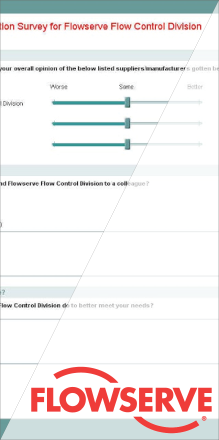
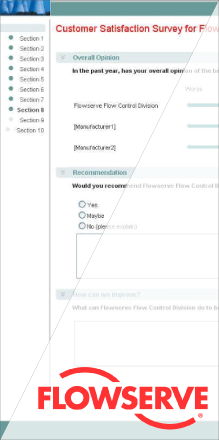
finish experience modals

diff --git a/app/index.html b/app/index.html
@@ -80,7 +80,15 @@
 
                         <div class="modal">
                             <label for="modal-1">
-                                <div class=""><img src="images/flowserve-teaser.png" class="logo"></div>
+                                <div class="modal-teaser">
+                                    <div class="modal-teaser-image"><img src="images/flowserve-teaser.png"></div>
+
+                                    <div class="modal-teaser-text">
+                                        <h4>Flowserve</h4>                            
+                                        <p>Built an online survey that could handle bidirectional language support using asynchronous Javascript and XML — three years before AJAX.</p> 
+                                        <div class="btn">Creative Strategy Innovations</div>
+                                    </div>
+                                </div>
                             </label>
 
                             <input class="modal-state" id="modal-1" type="checkbox"/>
@@ -88,16 +96,29 @@
                             <div class="modal-window">
                                 <div class="modal-inner">
                                     <label class="modal-close" for="modal-1"></label>
-                                    <h4>USPS</h4>
-                                    <p class="intro">While a contractor the US Postal Service, I was tasked with building an application for several hundred help desk associates, allowing them to virtually manage, update, and share documentation describing thousands of procedures.</p> 
-                                    <p class="body">Beginning with interviews from team leads and senior employees, I surveyed departments about current pain points and consulted with stakeholders to gather key requirements, including the newly issued federal accessibility standards, Section 508. I developed fully-functional interface prototypes, sitemaps, storyboards, and worked with back-end developers to consolidate code branches into a single deployment-ready codebase. Because of initial buy-in from pivotal members of staff, help desk workers were trained and able to use the application in a matter of hours after deployment.</p>
+
+                                    <div class="modal-inner-image"><img src="images/flowserve.png" alt=""></div>
+
+                                    <div class="modal-inner-text">
+                                        <h4>Flowserve Online Survey</h4>
+                                        <p class="intro">Built an online survey that could handle bidirectional language support using asynchronous Javascript and XML — three years before AJAX.</p> 
+                                        <p class="body">Beginning with interviews from team leads and senior employees, I surveyed departments about current pain points and consulted with stakeholders to gather key requirements, including the newly issued federal accessibility standards, Section 508. I developed fully-functional interface prototypes, sitemaps, storyboards, and worked with back-end developers to consolidate code branches into a single deployment-ready codebase. Because of initial buy-in from pivotal members of staff, help desk workers were trained and able to use the application in a matter of hours after deployment.</p>
+                                        </div>
                                 </div>
                             </div>
                         </div>
 
                         <div class="modal">
                             <label for="modal-2">
-                                <div class=""><img src="images/soccer-teaser.png" class="logo"></div>
+                                <div class="modal-teaser">
+                                    <div class="modal-teaser-image"><img src="images/soccer-teaser.png"></div>
+
+                                    <div class="modal-teaser-text">
+                                        <h4>Sports Endeavors</h4>                            
+                                        <p>Championed the evolution of the existing codebase of soccer.com, then an unwieldy 10,000 pages with no separation of presentation from content, into a semantic standards-based model.</p>  
+                                        <div class="btn">Proven Production Standards</div>
+                                    </div>
+                                </div>
                             </label>
 
                             <input class="modal-state" id="modal-2" type="checkbox"/>
@@ -105,16 +126,28 @@
                             <div class="modal-window">
                                 <div class="modal-inner">
                                     <label class="modal-close" for="modal-2"></label>
-                                    <h4>Sports Endeavors / soccer.com</h4>
-                                    <p class="intro">At soccer.com, I championed evolving the existing codebase  —  then an unwieldy 10,000 pages, with no separation of presentation from content —   into a semantic standards-based model.</p> 
-                                    <p class="body">I wrote production-level front-end and back-end code designed to be accessible on a variety of devices and across a wide spectrum of browser and browser versions, years before such standards were considered to be a natural part of development. I also developed interfaces for interactive Flash-based features and worked with departmental leads and other key stakeholders to ensure both adherence to vendor (Nike, Adidas, etc) based brand guidelines and commerce ready data quality standards. Much of the code I produced remained in production for over seven years.</p>
+                                        <div class="modal-inner-image"><img src="images/soccer.png" alt=""></div>
+
+                                        <div class="modal-inner-text">
+                                            <h4>Sports Endeavors / soccer.com</h4>
+                                            <p class="intro">At soccer.com, I championed evolving the existing codebase  —  then an unwieldy 10,000 pages, with no separation of presentation from content —   into a semantic standards-based model.</p> 
+                                            <p class="body">I wrote production-level front-end and back-end code designed to be accessible on a variety of devices and across a wide spectrum of browser and browser versions, years before such standards were considered to be a natural part of development. I also developed interfaces for interactive Flash-based features and worked with departmental leads and other key stakeholders to ensure both adherence to vendor (Nike, Adidas, etc) based brand guidelines and commerce ready data quality standards. Much of the code I produced remained in production for over seven years.</p>
+                                        </div>
                                 </div>
                             </div>
                         </div>
 
                         <div class="modal">
                             <label for="modal-3">
-                                <div class=""><img src="images/icontact-teaser.png" class="logo"></div>
+                                <div class="modal-teaser">
+                                    <div class="modal-teaser-image"><img src="images/icontact-teaser.png"></div>
+
+                                    <div class="modal-teaser-text">
+                                        <h4>iContact</h4>                            
+                                        <p>Created a user experience that pivoted the nature of a startup’s SaaS product into an industry leader and a multi-million dollar company.</p> 
+                                        <div class="btn">Exponential Growth Record</div>
+                                    </div>
+                                </div>
                             </label>
 
                             <input class="modal-state" id="modal-3" type="checkbox"/>
@@ -122,9 +155,14 @@
                             <div class="modal-window">
                                 <div class="modal-inner">
                                     <label class="modal-close" for="modal-3"></label>
-                                    <h4>iContact / icontact.com</h4>
-                                    <p class="intro">While at iContact, I was one of two UX designers tasked with creating an experience intended to pivot the nature of the then-startup’s product.</p> 
-                                    <p class="body">I analyzed months of help desk tickets in order to determine specific user pain points and conducted a heuristic evaluation of the existing application. After generating competitive analyses of key competitors and target competitive markets, I performed content auditing on existing marketing materials. In order to facilitate company buy-in of user-centered principles, I worked with back-end development in an Agile environment to create functional design patterns, define user flows, establish sitemaps, and other UX deliverables. Before launch, I conducted focus groups, informal “hallway” usability audits, formal usability testing, and A/B testing in order to verify and validate application features. Trial conversion rates increased by 200% during the first quarter after relaunch and doubled the number of paying customers in a less than year. iContact was named the #1 Marketing Application for 2007 by SEOMoz, then a major industry consulting firm.</p>
+
+                                    <div class="modal-inner-image"><img src="images/icontact.png" alt=""></div>
+
+                                    <div class="modal-inner-text">
+                                        <h4>iContact / icontact.com</h4>
+                                        <p class="intro">One of two UX designers tasked with creating a user experience intended to pivot the nature of the startup’s product into a multi-million dollar company.</p> 
+                                        <p class="body">In order to determine specific user pain points, I analyzed months of help desk tickets and conducted a heuristic evaluation of the existing application. After generating competitive analyses of key competitors and target competitive markets, I performed content auditing on existing marketing materials. In order to facilitate company buy-in of user-centered principles, I worked with back-end development in an Agile environment to create functional design patterns, define user flows, establish sitemaps, and other UX deliverables. Before launch, I conducted focus groups, informal “hallway” usability audits, formal usability testing, and A/B testing in order to verify and validate application features. Trial conversion rates increased by 200% during the first quarter after relaunch and doubled the number of paying customers in a less than year. iContact was named the #1 Marketing Application for 2007 by SEOMoz, then a major industry consulting firm.</p>
+                                    </div>
                                 </div>
                             </div>
                         </div>
@@ -149,8 +187,8 @@
             </main><!-- .main -->
 
             <footer>
-                <p>Colophon: Bourbon Neat via Yeoman, Sublime Text with some help from vim, and other delightful things.</p>
-                <p>Original photography copyright Jeni Grant, 2014. Icons by Google; USPS, Eurosport &amp; iContact by their respective companies and used in accordance with fair use doctrine.
+                <p>Colophon: Bourbon Neat &amp; Refills, Sublime Text with some help from vim, and other delightful things.</p>
+                <p>Original photography copyright Jeni Grant, 2014. Icons by Google.
             </footer><!-- .footer -->
 
             <!-- build:js scripts/vendor.js -->

diff --git a/app/sass/base/_typography.scss b/app/sass/base/_typography.scss
@@ -1,99 +1,98 @@
 body {
-  -webkit-font-smoothing: antialiased;
-  background-color: $base-background-color;
-  color: $base-font-color;
-  font-family: $base-font-family;
-  font-size: $base-font-size;
-  line-height: $unitless-line-height;
+    -webkit-font-smoothing: antialiased;
+    background-color: $base-background-color;
+    color: $base-font-color;
+    font-family: $base-font-family;
+    font-size: $base-font-size;
+    line-height: $unitless-line-height;
 }
 
 h1, h2, h3, h4, h5, h6 {
-  font-family: $header-font-family;
-  line-height: $header-line-height;
-  margin: 0;
-  text-rendering: optimizeLegibility; // Fix the character spacing for headings
-  font-weight: normal;
-  z-index: $z-index-3;
+    font-family: $header-font-family;
+    line-height: $header-line-height;
+    margin: 0;
+    text-rendering: optimizeLegibility; // Fix the character spacing for headings
+    font-weight: normal;
+    z-index: $z-index-3;
 }
 
 h1 {
-  font-size: $base-font-size * 3; // 16 * 2.25 = 36px
+    font-size: $base-font-size * 3; // 16 * 2.25 = 36px
 }
 
 h2 {
-  font-size: $base-font-size * 2.5; // 16 * 2 = 32px
+    font-size: $base-font-size * 2.75; // 16 * 2 = 32px
 }
 
 h3 {
-  font-size: $base-font-size * 2.25; // 16 * 1.75 = 28px
+    font-size: $base-font-size * 2.5; // 16 * 1.75 = 28px
 }
 
 h4 {
-  font-size: $base-font-size * 1.25; // 16 * 1.5 = 24px
+    font-size: $base-font-size * 1.75; // 16 * 1.5 = 24px
 }
 
 h5 {
-  font-size: $base-font-size * 1.25; // 16 * 1.25 = 20px
+    font-size: $base-font-size * 1.5; // 16 * 1.25 = 20px
 }
 
 h6 {
-  font-size: $base-font-size;
+    font-size: $base-font-size;
 }
 
 p {
-  margin: 0 0 ($base-line-height * .5);
+    margin: 0 0 ($base-line-height * .5);
 }
 
 a {
-  @include transition(color 0.1s linear);
-  color: $base-link-color;
-  text-decoration: none;
+    @include transition(color 0.1s linear);
+    color: $base-link-color;
+    text-decoration: none;
 
-  &:hover {
-    color: $hover-link-color;
-  }
+    &:hover {
+        color: $hover-link-color;
+    }
 
-  &:active, &:focus {
-    color: $hover-link-color;
-    outline: none;
-  }
+    &:active, &:focus {
+        color: $hover-link-color;
+        outline: none;
+    }
 }
 
 hr {
-  border-bottom: 1px solid $base-border-color;
-  border-left: none;
-  border-right: none;
-  border-top: none;
-  margin: $base-line-height 0;
+    border-bottom: 1px solid $base-border-color;
+    border-left: none;
+    border-right: none;
+    border-top: none;
+    margin: $base-line-height 0;
 }
 
 img {
-  margin: 0 1em;
-  max-width: 100%;
+    max-width: 100%;
 
-  &.right {
-    float: right;
-    clear: left;
-  }
+    &.right {
+        float: right;
+        clear: left;
+    }
 
-  &.left {
-    float: left;
-    clear: right;
-  }
+    &.left {
+        float: left;
+        clear: right;
+    }
 }
 
 blockquote {
-  border-left: 2px solid $base-border-color;
-  color: lighten($base-font-color, 15);
-  margin: $base-line-height 0;
-  padding-left: $base-line-height / 2;
+    border-left: 2px solid $base-border-color;
+    color: lighten($base-font-color, 15);
+    margin: $base-line-height 0;
+    padding-left: $base-line-height / 2;
 }
 
 cite {
-  color: lighten($base-font-color, 25);
-  font-style: italic;
+    color: lighten($base-font-color, 25);
+    font-style: italic;
 
-  &:before {
-    content: '\2014 \00A0';
-  }
+    &:before {
+        content: '\2014 \00A0';
+    }
 }

diff --git a/app/sass/base/_variables.scss b/app/sass/base/_variables.scss
@@ -43,15 +43,13 @@ $base-background-color: white;
 
 // Font Colors
 $base-font-color: $dark-gray;
-$base-accent-color: $blue;
+$base-accent-color: $dark-blue;
 
 // Link Colors
 $base-link-color: $base-accent-color;
-$hover-link-color: darken($base-accent-color, 15);
+$hover-link-color: lighten($base-link-color, 10);
 $base-button-color: $base-link-color;
 $hover-button-color: $hover-link-color;
-$linkColor: #4183C4;
-$hoverColor: lighten($linkColor, 10);
 $borderColor: #b3b3b3;
 
 // Border color

diff --git a/app/sass/main.scss b/app/sass/main.scss
@@ -20,10 +20,10 @@ body {
 
 
 a {
-	color: $linkColor;
+	color: $base-link-color;
 	text-decoration: none;
 	&:hover {
-		color: $hoverColor;
+		color: $hover-link-color;
 	}
 }
 

diff --git a/app/sass/layout/_main.scss b/app/sass/layout/_main.scss
@@ -141,9 +141,6 @@ main {
 			}
 
 			img {
-				min-height: 200px;
-				max-height: 250px;
-
 				&:before {
 					content: ' ';
 					display: block;

diff --git a/app/sass/layout/_footer.scss b/app/sass/layout/_footer.scss
@@ -13,7 +13,7 @@ footer {
 			color: #0081C6;
 			
 			&:hover {
-				color: $hoverColor;	
+				color: $hover-link-color;	
 			}
 		}
 	}
